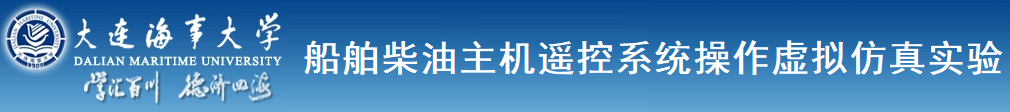
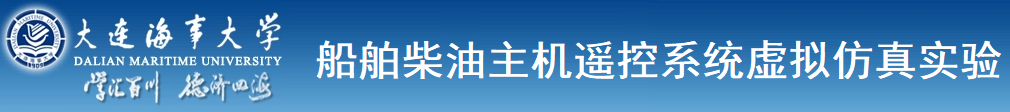
0106版本

Changed region(s): [[0.2762, 0.3482, 1.0, 0.7232]]

diff --git a/js/main.js b/js/main.js
@@ -385,6 +385,31 @@ document.getElementById('conBefore').onclick=function(){//原始状况
 	condition.style.display='none';
 	// conditionX+=1;
 	btelegraph1lever.style.top = '-330px';
+	ttelegraph1lever.style.top = '0px';
+	ttelegraph2lever.style.top = '0px';
+	ttelegraph2watch.innerHTML = 'STOP';
+
+	lhandle1x = 1;  //机旁页面扳手 指向LOCAL
+	lhandle1.style.transformOrigin = '31% 31%';
+	lhandle1.style.transform = 'rotate(' + 90 + 'deg)';
+	lhandle2x = 1; //标识位 1为AHEAD 0为ASTERN
+	lhandle2.style.transformOrigin = '31% 31%';
+	lhandle2.style.transform = 'rotate(' + 90 + 'deg)';
+	lhandle3x = 0; //标识位 0为LOCK 1为UNLOCK
+	lhandle3.style.transformOrigin = '31% 31%';
+	lhandle3.style.transform = 'rotate(' + 0 + 'deg)';
+	thandlex = 0;  //集控车钟页面扳手 指向BRIDGE
+	thandle.style.transformOrigin = '31% 31%';
+	thandle.style.transform = 'rotate(' + 90 + 'deg)';
+	controlLocation();
+    //机旁的手轮
+	lwheelx1x = 0;//
+	lprintPancel1(lwheelx1x);
+	lwheelx2x = 0;//
+	lprintPancel2(lwheelx2x);
+
+	bStandBy.style.backgroundColor='yellow';
+	bStandBy.innerHTML='Stand By'
 	yd=0;
 	ydx=0;
 	rmp=0;
@@ -394,8 +419,6 @@ document.getElementById('conBefore').onclick=function(){//原始状况
 	lrmp=0;
 	LED()
 	schematicX=0;
-	lwheelx1x=0;
-	lprintPancel1(lwheelx1x);
 }
 document.getElementById('conReadyC').onclick=function(){//备车完毕
 	value16x = 1;
@@ -405,7 +428,33 @@ document.getElementById('conReadyC').onclick=function(){//备车完毕
 	value118x  = 1;
 	valueMainx = 1;
 	condition.style.display='none';
-	// conditionX+=1;
+	btelegraph1lever.style.top = '-330px';
+	ttelegraph1lever.style.top = '0px';
+	ttelegraph2lever.style.top = '0px';
+	ttelegraph2watch.innerHTML = 'STOP';
+
+	lhandle1x = 0;  //机旁页面扳手 指向LOCAL
+	lhandle1.style.transformOrigin = '31% 31%';
+	lhandle1.style.transform = 'rotate(' + 0 + 'deg)';
+	lhandle2x = 1; //标识位 1为AHEAD 0为ASTERN
+	lhandle2.style.transformOrigin = '31% 31%';
+	lhandle2.style.transform = 'rotate(' + 90 + 'deg)';
+	lhandle3x = 0; //标识位 0为LOCK 1为UNLOCK
+	lhandle3.style.transformOrigin = '31% 31%';
+	lhandle3.style.transform = 'rotate(' + 0 + 'deg)';
+	thandlex = 0;  //集控车钟页面扳手 指向BRIDGE
+	thandle.style.transformOrigin = '31% 31%';
+	thandle.style.transform = 'rotate(' + 90 + 'deg)';
+	controlLocation();
+    //机旁的手轮
+	lwheelx1x = 0;//
+	lprintPancel1(lwheelx1x);
+	lwheelx2x = 0;//
+	lprintPancel2(lwheelx2x);
+
+	bStandBy.style.backgroundColor='yellow';
+	bStandBy.innerHTML='Stand By'
+	
 	LED()
 	controlLocation();
 	schematicX=1;

diff --git a/mainEngine.html b/mainEngine.html
@@ -3,7 +3,7 @@
 
 <head>
 	<meta charset="UTF-8">
-	<title>基于web的船舶主机遥控实训仿真系统</title>
+	<title>船舶柴油主机遥控系统虚拟仿真实验</title>
 	<link rel="icon" type="image/png" href="img/dlmutou.png" />
 	<link rel="stylesheet" href="css/common.css" type="text/css" />
 	<link rel="stylesheet" href="css/bridge.css" type="text/css" />
@@ -35,7 +35,8 @@
 				<li id="alocal">机旁控制</li>
 				<li id="aschematicDiagram">气动操纵</li>				
 				<li id="adiagram">状态曲线</li>				
-				<li id="athreeD">主机3D模型</li>
+				<li id="athreeD">主机模型</li>
+				<li id="aexam">参考试题</li>
 				<!-- <li id="acontrolPanel">控制面板</li> -->
 			</ul>
 		</div>
@@ -177,7 +178,7 @@
 						<li>Manual Fuel Limiter</li>
 					</div>
 					<!--pid窗口-->
-					<div id="pidParameter">
+					<div id="bpidParameter">
 						Kp<input type="text" id="Kpx" value="8"
 							onkeyup="this.value=this.value.replace(/[^0-9\.]/g,'')" /><br /> Ki
 						<input type="text" id="Kix" value="0"
@@ -411,7 +412,7 @@
 						<li>Manual Fuel Limiter</li>
 					</div>
 					<!--pid窗口-->
-					<div id="pidParameter">
+					<div id="cpidParameter">
 						<!-- Kp<input type="text" id="Kpx" value="8"
 							onkeyup="this.value=this.value.replace(/[^0-9\.]/g,'')" /><br /> Ki
 						<input type="text" id="Kix" value="0"
@@ -940,7 +941,7 @@
 					<canvas id="threeDC1">你的浏览器不支持canvas</canvas>
 					<canvas id="threeDC2">你的浏览器不支持canvas</canvas> -->
 				<img id="threeDgif" src="">
-				<div id="threeSpeedBox">当前转速为：<span id="threeSpeed"></span>  </div>
+				<div id="threeSpeedBox">转速：<span id="threeSpeed"></span> RPM </div>
 			</div>
 			<!--            调速器                 -->
 			<div id="governor">

diff --git a/css/controlRoom.css b/css/controlRoom.css
@@ -1,5 +1,6 @@
 li {
 	cursor: pointer;
+	list-style-type: none;
 }
 
 #cWorkingCondition1 {
@@ -195,7 +196,7 @@ li {
 	width: 300px;
 	height: 460px;
 	border: 5px solid white;
-	padding: 8px 0px 0px 33px;
+	padding: 8px 0px 0px 8px;
 	border-radius: 25px;
 	position: absolute;
 	top: 30px;
@@ -210,7 +211,7 @@ li {
 	height: 460px;
 	border: 5px solid red;
 	border-radius: 25px;
-	padding: 8px 0px 0px 33px;
+	padding: 8px 0px 0px 8px;
 	position: absolute;
 	top: 30px;
 	left: 350px;
@@ -225,7 +226,7 @@ li {
 	margin: 30px 0px 30px 10px;
 	border: 5px solid blue;
 	border-radius: 25px;
-	padding: 8px 0px 0px 33px;
+	padding: 8px 0px 0px 8px;
 	position: absolute;
 	top: 0px;
 	left: 760px;
@@ -499,4 +500,8 @@ li {
 	border-top: 35px solid #D8D8D8;
 	background-color: #868784;
 	padding-top: 45px;
+}
+
+#cEngineStateBox li::before{
+	content: "●";
 }

diff --git a/css/bridge.css b/css/bridge.css
@@ -348,7 +348,7 @@
 	width: 300px;
 	height: 460px;
 	border: 5px solid white;
-	padding: 8px 0px 0px 33px;
+	padding: 8px 0px 0px 8px;
 	border-radius: 25px;
 	position: absolute;
 	top: 30px;
@@ -364,7 +364,7 @@
 	height: 460px;
 	border: 5px solid red;
 	border-radius: 25px;
-	padding: 8px 0px 0px 33px;
+	padding: 8px 0px 0px 8px;
 	position: absolute;
 	top: 30px;
 	left: 350px;
@@ -379,7 +379,7 @@
 	margin: 30px 0px 30px 10px;
 	border: 5px solid blue;
 	border-radius: 25px;
-	padding: 8px 0px 0px 33px;
+	padding: 8px 0px 0px 8px;
 	position: absolute;
 	top: 0px;
 	left: 760px;
@@ -831,8 +831,8 @@ input {
 	background-color: white;
 }
 
-#bECRstate li::before{
-	content: "·";
+#bEngineStateBox li::before{
+	content: "●";
 }
 
 #binComLed{

diff --git a/js/telegraph.js b/js/telegraph.js
@@ -255,7 +255,7 @@ ttelegraph2lever.onmousedown = function (ev) {
 
 //驾控台与集控室 切换手柄
 var thandle = document.getElementById('thandle');
-var thandlex = 0; //杠杆手柄左右标志位，默认集控室
+var thandlex = 0; //杠杆手柄左右标志位，0为bridge
 thandle.onclick = function () {
 	if (thandlex % 2 == 1) { //由集控室改到驾控台
 		this.style.transformOrigin = '31% 31%';

diff --git a/js/local.js b/js/local.js
@@ -48,7 +48,7 @@ lhandle1.onclick = function () {
 }
 
 var lhandle2 = document.getElementById('lhandle2');
-var lhandle2x = 1; //标识位 0为REMOTE 1为LOCAL
+var lhandle2x = 1; //标识位 1为AHEAD 0为ASTERN
 lhandle2.onclick = function () {
 	if (lhandle2x % 2 == 0) {
 		this.style.transformOrigin = '31% 31%';

diff --git a/css/common.css b/css/common.css
@@ -49,8 +49,8 @@ a {
 #meau li {
 	height: 38px;
 	float: left;
-	padding-left: 15px;
-	padding-right: 15px;
+	padding-left: 11px;
+	padding-right: 10px;
 	padding-top: 2px;
 	padding-bottom: 5px;
 	text-align: center;

diff --git a/css/schematicDiagram.css b/css/schematicDiagram.css
@@ -35,9 +35,8 @@
 
 #value16txt {
 	position: absolute;
-	left: 1140px;
+	left: 1120px;
 	top: 700px;
-	height: 30px;
 	border: 2px solid black;
 	background-color: #FFFFD7;
 	text-align: center;

diff --git a/js/bridge.js b/js/bridge.js
@@ -1,3 +1,4 @@
+var bStandBy=document.getElementById('bStandBy')
 //*************驾驶台画表盘
 printPanel(250, 280, 150, 130, 'bCanvas');
 printPanel(680, 225, 120, 100, 'bCanvas');
